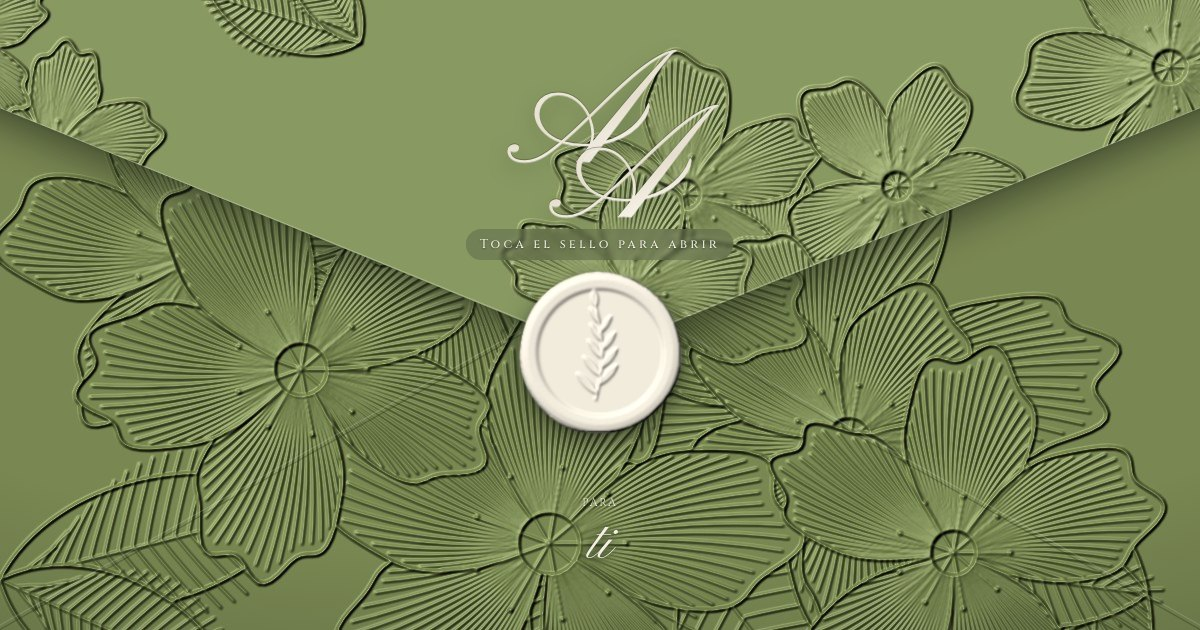
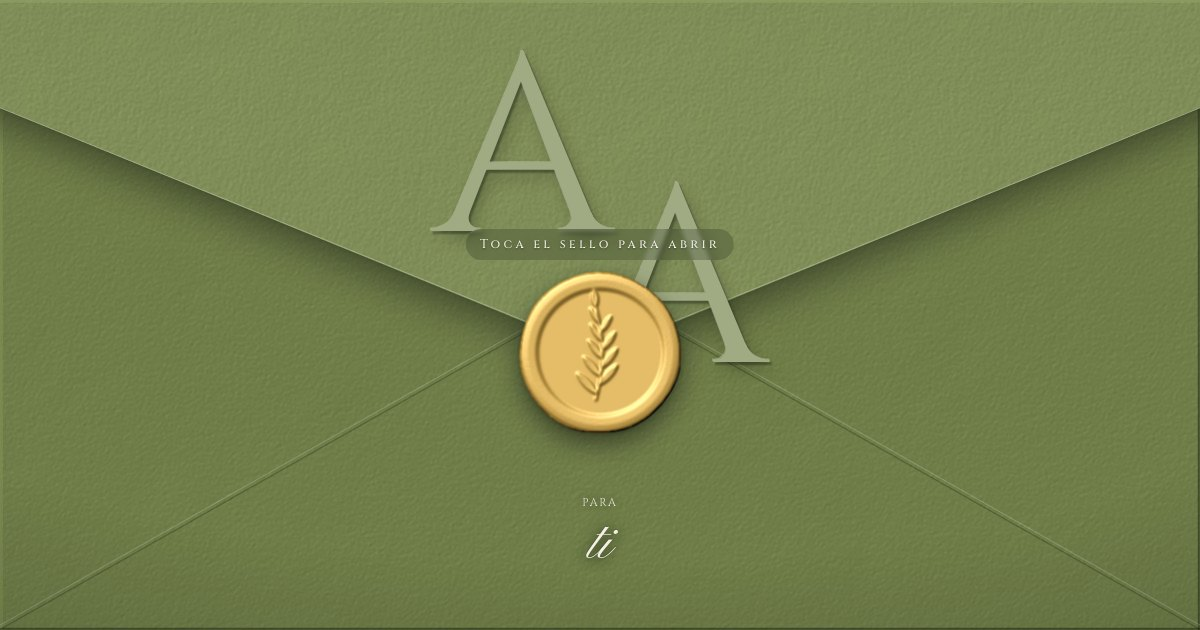
Invitación suelta: sobre liso de papel texturizado con monograma en relieve y sello dorado, fondo de satín y papel moteado en tarjetas greige (texturas.py)

diff --git a/public/inv/angeles-y-alejandro.html b/public/inv/angeles-y-alejandro.html
@@ -287,6 +287,19 @@
   .monograma-sobre span{font-size:clamp(100px,26vmin,176px)}
   .monograma-sobre .c{margin:.34em 0 0 -1.3em}
 </style>
+<style>
+  /* monograma grande, en relieve sobre el papel (letras romanas, la segunda corrida abajo a la derecha) */
+  .monograma-sobre{top:calc(9% - .1 * clamp(150px,40vmin,260px))}
+  .monograma-sobre span{font-family:var(--grabado);font-weight:400;font-size:clamp(150px,40vmin,260px);padding:.1em .2em .2em;background:none;-webkit-background-clip:border-box;background-clip:border-box;
+    color:color-mix(in srgb,var(--salvia-2) 72%,#fff 28%);filter:none;text-shadow:-1px -1px 0 rgba(255,255,255,.28),2px 3px 2px rgba(25,32,16,.42),5px 9px 14px rgba(25,32,16,.25)}
+  .monograma-sobre .c{margin:.52em 0 0 -.5em !important}
+  .toca{background:rgba(40,50,28,.28)}
+  .sello-img{background:radial-gradient(circle at 38% 32%,#f3e2a8,#c9a457 45%,#8d6d2c 100%)}
+  /* fondo de tela (se pinta una vez, abajo) */
+  #tela{position:fixed;inset:0;z-index:0;pointer-events:none;background:#f3f1ec url(/inv/texturas/tela.jpg) center/cover no-repeat}
+  /* papel moteado tipo piedra para las tarjetas greige */
+  .tarjeta.greige,.fc{background-color:#d8d2c3;background-image:url(/inv/texturas/papel.jpg)!important;background-size:512px 512px}
+</style>
 </head><body class="cerrada">
 <script>document.documentElement.classList.add("cerrada");</script>
 
@@ -618,6 +631,11 @@
 <script>
 // Relieve de papel prensado: se dibuja un "mapa de alturas" en gris (líneas blancas = alto) y un filtro de luz
 // SVG lo convierte en relieve iluminado. Se pinta UNA vez en un canvas (las animaciones no recalculan la luz).
+// Relieve de papel con grano (en vez de flores): ruido fino + manchas suaves, como cartulina texturizada
+window.__TEXTURA = (W, H, s) => `<defs>
+  <filter id="tf${s}" x="0" y="0" width="100%" height="100%"><feTurbulence type="fractalNoise" baseFrequency=".9" numOctaves="3" seed="${s}"/><feColorMatrix values="1 0 0 0 0 1 0 0 0 0 1 0 0 0 0 0 0 0 0 1"/></filter>
+  <filter id="tm${s}" x="0" y="0" width="100%" height="100%"><feTurbulence type="fractalNoise" baseFrequency=".012" numOctaves="3" seed="${s + 5}"/><feColorMatrix values="1 0 0 0 0 1 0 0 0 0 1 0 0 0 0 0 0 0 0 1"/></filter></defs>
+  <rect width="${W}" height="${H}" fill="#7a7a7a"/><rect width="${W}" height="${H}" filter="url(#tm${s})" opacity=".35"/><rect width="${W}" height="${H}" filter="url(#tf${s})" opacity=".55"/>`;
 window.Grabado = (() => {
   let semilla = 7; const azar = () => (semilla = (semilla * 16807) % 2147483647) / 2147483647;
   const f = (n) => n.toFixed(1);
@@ -734,7 +752,7 @@ window.Grabado = (() => {
         <feColorMatrix in="SourceGraphic" type="luminanceToAlpha" result="alto"/>
         <feGaussianBlur in="alto" stdDeviation="${f(S * .005)}" result="suave"/>
         <feDiffuseLighting in="suave" surfaceScale="${f(S * .028)}" diffuseConstant="1.12" lighting-color="#fff" result="luz"><feDistantLight azimuth="235" elevation="58"/></feDiffuseLighting>
-        <feSpecularLighting in="suave" surfaceScale="${f(S * .028)}" specularConstant=".12" specularExponent="30" lighting-color="#fff" result="brillo"><feDistantLight azimuth="235" elevation="50"/></feSpecularLighting>
+        <feSpecularLighting in="suave" surfaceScale="${f(S * .028)}" specularConstant=".7" specularExponent="16" lighting-color="#fff" result="brillo"><feDistantLight azimuth="235" elevation="50"/></feSpecularLighting>
         <feFlood flood-color="${base}"/><feComposite in2="luz" operator="arithmetic" k1="1.08" result="tinta"/>
         <feComposite in="tinta" in2="brillo" operator="arithmetic" k2="1" k3=".6" result="pintado"/>
         <feComposite in="pintado" in2="SourceAlpha" operator="in"/>
@@ -773,9 +791,9 @@ window.Grabado = (() => {
     const [c1, c2, c3] = pal ? [pal[0], pal[1], mezcla(pal[2], pal[3])] : ["#7d8a6a", "#889577", "#4c5543"];
     const W = innerWidth, H = innerHeight;
     const [fondo, solapa, crema, verde] = await Promise.all([
-      Grabado.pintar(W, H, Grabado.mapaFlores(W, H, 7), c1),
-      Grabado.pintar(Math.round(W * 1.44), Math.round(H * .56), Grabado.mapaFlores(Math.round(W * 1.44), Math.round(H * .56), 23), c2),
-      Grabado.sello(180, "#e9e3d5", 31), Grabado.sello(180, c3, 31),
+      Grabado.pintar(W, H, window.__TEXTURA(W, H, 7), c1, { escala: 2.4, brillo: .05 }),
+      Grabado.pintar(Math.round(W * 1.44), Math.round(H * .56), window.__TEXTURA(Math.round(W * 1.44), Math.round(H * .56), 23), c2, { escala: 2.4, brillo: .05 }),
+      Grabado.sello(180, "#b8913f", 31), Grabado.sello(180, "#a98538", 31),
     ]);
     if (pintado !== clave) return;   // llegó otra paleta mientras se pintaba
     if (fondo && sobre.isConnected) sobre.style.backgroundImage = `url(${fondo})`;
@@ -1250,4 +1268,5 @@ window.Grabado = (() => {
   };
 </script>
 
+<div id="tela" aria-hidden="true"></div>
 </body></html>

diff --git a/scripts/invitaciones/texturas.py b/scripts/invitaciones/texturas.py
@@ -1,0 +1,50 @@
+# Texturas de las invitaciones sueltas (se generan una vez y quedan en public/inv/texturas/):
+#  · tela.jpg  — satín blanco con pliegues largos y brillo (fondo de la página)
+#  · papel.jpg — papel moteado tipo piedra/gamuza, repetible (tarjetas greige)
+# python3 scripts/invitaciones/texturas.py
+import numpy as np
+from PIL import Image
+rng = np.random.default_rng(7)
+SAL = __import__("os").path.join(__import__("os").path.dirname(__file__), "../../public/inv/texturas")
+
+def ruido(h, w, sigma, semilla):
+    """Ruido suave y repetible (borde con borde) filtrando ruido blanco en frecuencia."""
+    r = np.random.default_rng(semilla).standard_normal((h, w))
+    fy = np.fft.fftfreq(h)[:, None]; fx = np.fft.fftfreq(w)[None, :]
+    g = np.exp(-2 * (np.pi * sigma) ** 2 * (fx ** 2 + fy ** 2))
+    n = np.real(np.fft.ifft2(np.fft.fft2(r) * g))
+    return (n - n.mean()) / (n.std() + 1e-9)
+
+def luz(alto, escala, color, difusa=.85, brillo=.0, exp=20, amb=.32):
+    gy, gx = np.gradient(alto * escala)
+    n = np.dstack([-gx, -gy, np.ones_like(alto)]); n /= np.linalg.norm(n, axis=2, keepdims=True)
+    L = np.array([-.45, -.6, .66]); L /= np.linalg.norm(L)
+    V = np.array([0, 0, 1.]); Hh = (L + V) / np.linalg.norm(L + V)
+    d = np.clip((n * L).sum(2), 0, 1); s = np.clip((n * Hh).sum(2), 0, 1) ** exp
+    c = np.array(color, float) / 255
+    img = c * (amb + difusa * d)[..., None] + brillo * s[..., None]
+    return img
+
+# ── Tela de satín: pliegues diagonales que se doblan suave ──
+H, W = 2000, 1200
+y, x = np.mgrid[0:H, 0:W].astype(float)
+ang = np.deg2rad(28)
+torcer = ruido(H, W, 160, 3) * 120 + ruido(H, W, 60, 4) * 25
+u = x * np.cos(ang) + y * np.sin(ang) + torcer
+alto = (np.sin(u / 95) * 1.0 + np.sin(u / 47 + 1.3) * .35 + np.sin(u / 160 + .4) * .9) * (0.75 + .25 * ruido(H, W, 220, 5))
+alto += ruido(H, W, 1.2, 9) * .0025                    # trama fina del tejido (apenas)
+img = luz(alto, 9, (246, 244, 240), difusa=.5, brillo=.32, exp=12, amb=.6)
+img = np.clip(img / np.percentile(img, 99.5) * .99, 0, 1)
+Image.fromarray((img * 255).astype(np.uint8)).save(f"{SAL}/tela.jpg", quality=82, optimize=True, progressive=True)
+
+# ── Papel moteado (repetible) ──
+T = 512
+m = ruido(T, T, 14, 21) * .55 + ruido(T, T, 5, 22) * .3 + ruido(T, T, 40, 23) * .5
+grano = ruido(T, T, .8, 24)
+base = np.array([217, 211, 196], float) / 255
+tono = 1 + m * .035 + grano * .012
+img = base * tono[..., None]
+relieve = luz(m * .5 + grano * .06, 1.2, (255, 255, 255), difusa=.35, amb=.75)
+img = np.clip(img * (relieve / relieve.mean()), 0, 1)
+Image.fromarray((img * 255).astype(np.uint8)).save(f"{SAL}/papel.jpg", quality=86, optimize=True)
+print("ok")
